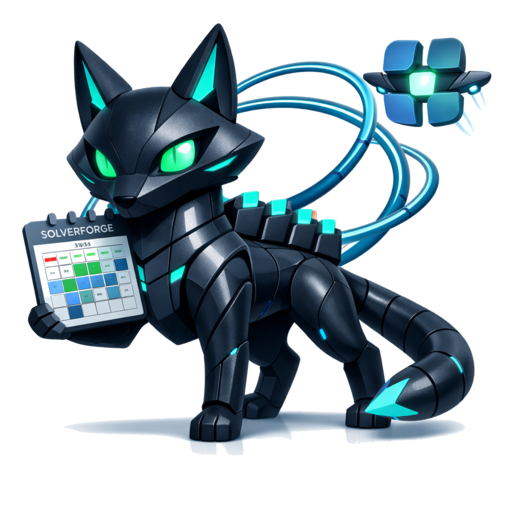
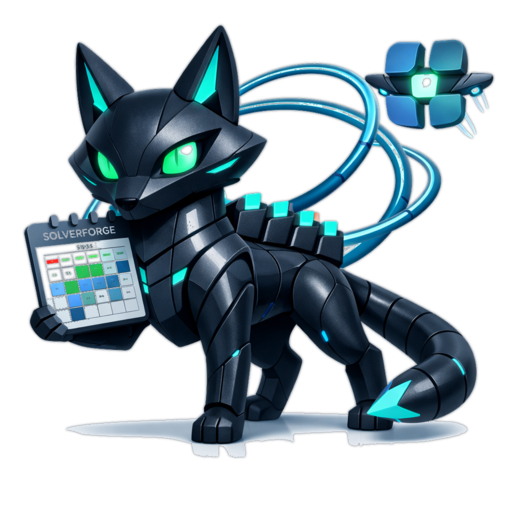
docs: refine README hero and mascot

diff --git a/README.md b/README.md
@@ -1,18 +1,19 @@
 # SolverForge Calendar
 
-![SolverForge Mascot](assets/mascot.png)
-
 <div align="center">
 
-[![CI](https://github.com/blackopsrepl/solverforge-calendar/actions/workflows/ci.yml/badge.svg)](https://github.com/blackopsrepl/solverforge-calendar/actions/workflows/ci.yml)
-![Version](https://img.shields.io/badge/version-0.2.0-82FB9C)
-![Rust](https://img.shields.io/badge/rust-stable-orange)
+  <img src="assets/mascot.png" alt="SolverForge Mascot" width="320" />
+
+  <br />
+
+  [![CI](https://github.com/blackopsrepl/solverforge-calendar/actions/workflows/ci.yml/badge.svg?style=for-the-badge)](https://github.com/blackopsrepl/solverforge-calendar/actions/workflows/ci.yml)
+  [![Version](https://img.shields.io/badge/version-v0.2.0-00E6A8?style=for-the-badge)](https://github.com/blackopsrepl/solverforge-calendar)
+  [![Rust](https://img.shields.io/badge/rust-stable-orange?style=for-the-badge)](https://www.rust-lang.org)
+  [![Built With Ratatui](https://img.shields.io/badge/built%20with-ratatui-5A54FF?style=for-the-badge)](https://ratatui.rs/)
 
 </div>
 
 A spiffy ratatui TUI calendar — local SQLite with Google Calendar sync and DAG-linked events.
-
-[![Built With Ratatui](https://ratatui.rs/built-with-ratatui/badge.svg)](https://ratatui.rs/)
 
 ![SolverForge Calendar](assets/screenshot.png)
 